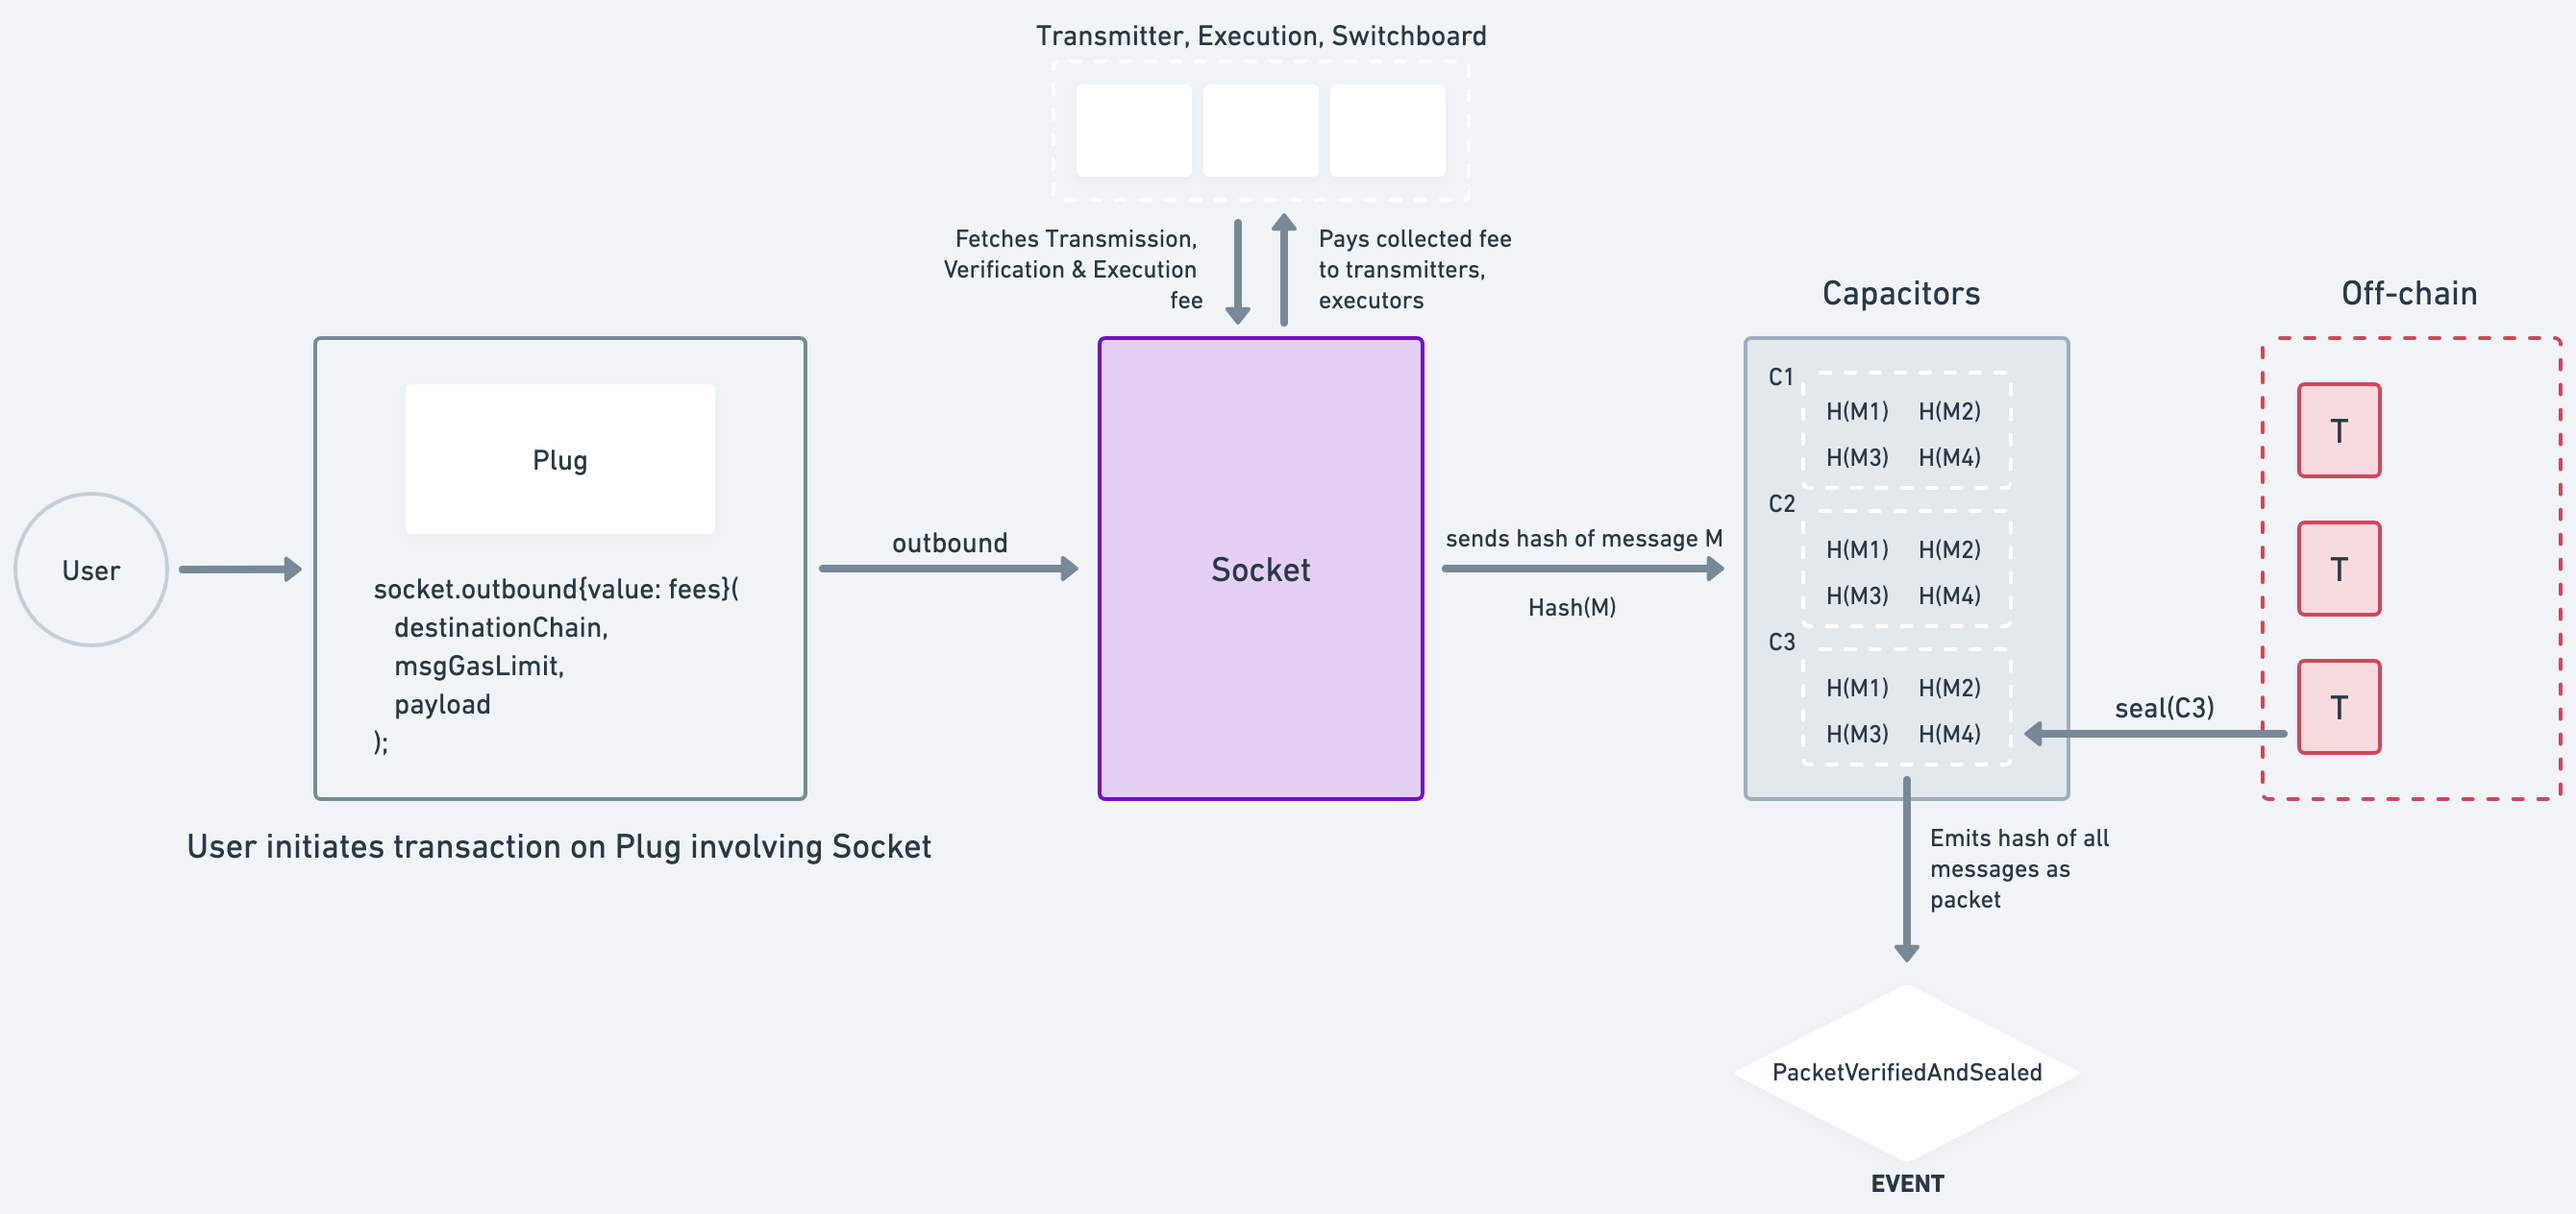
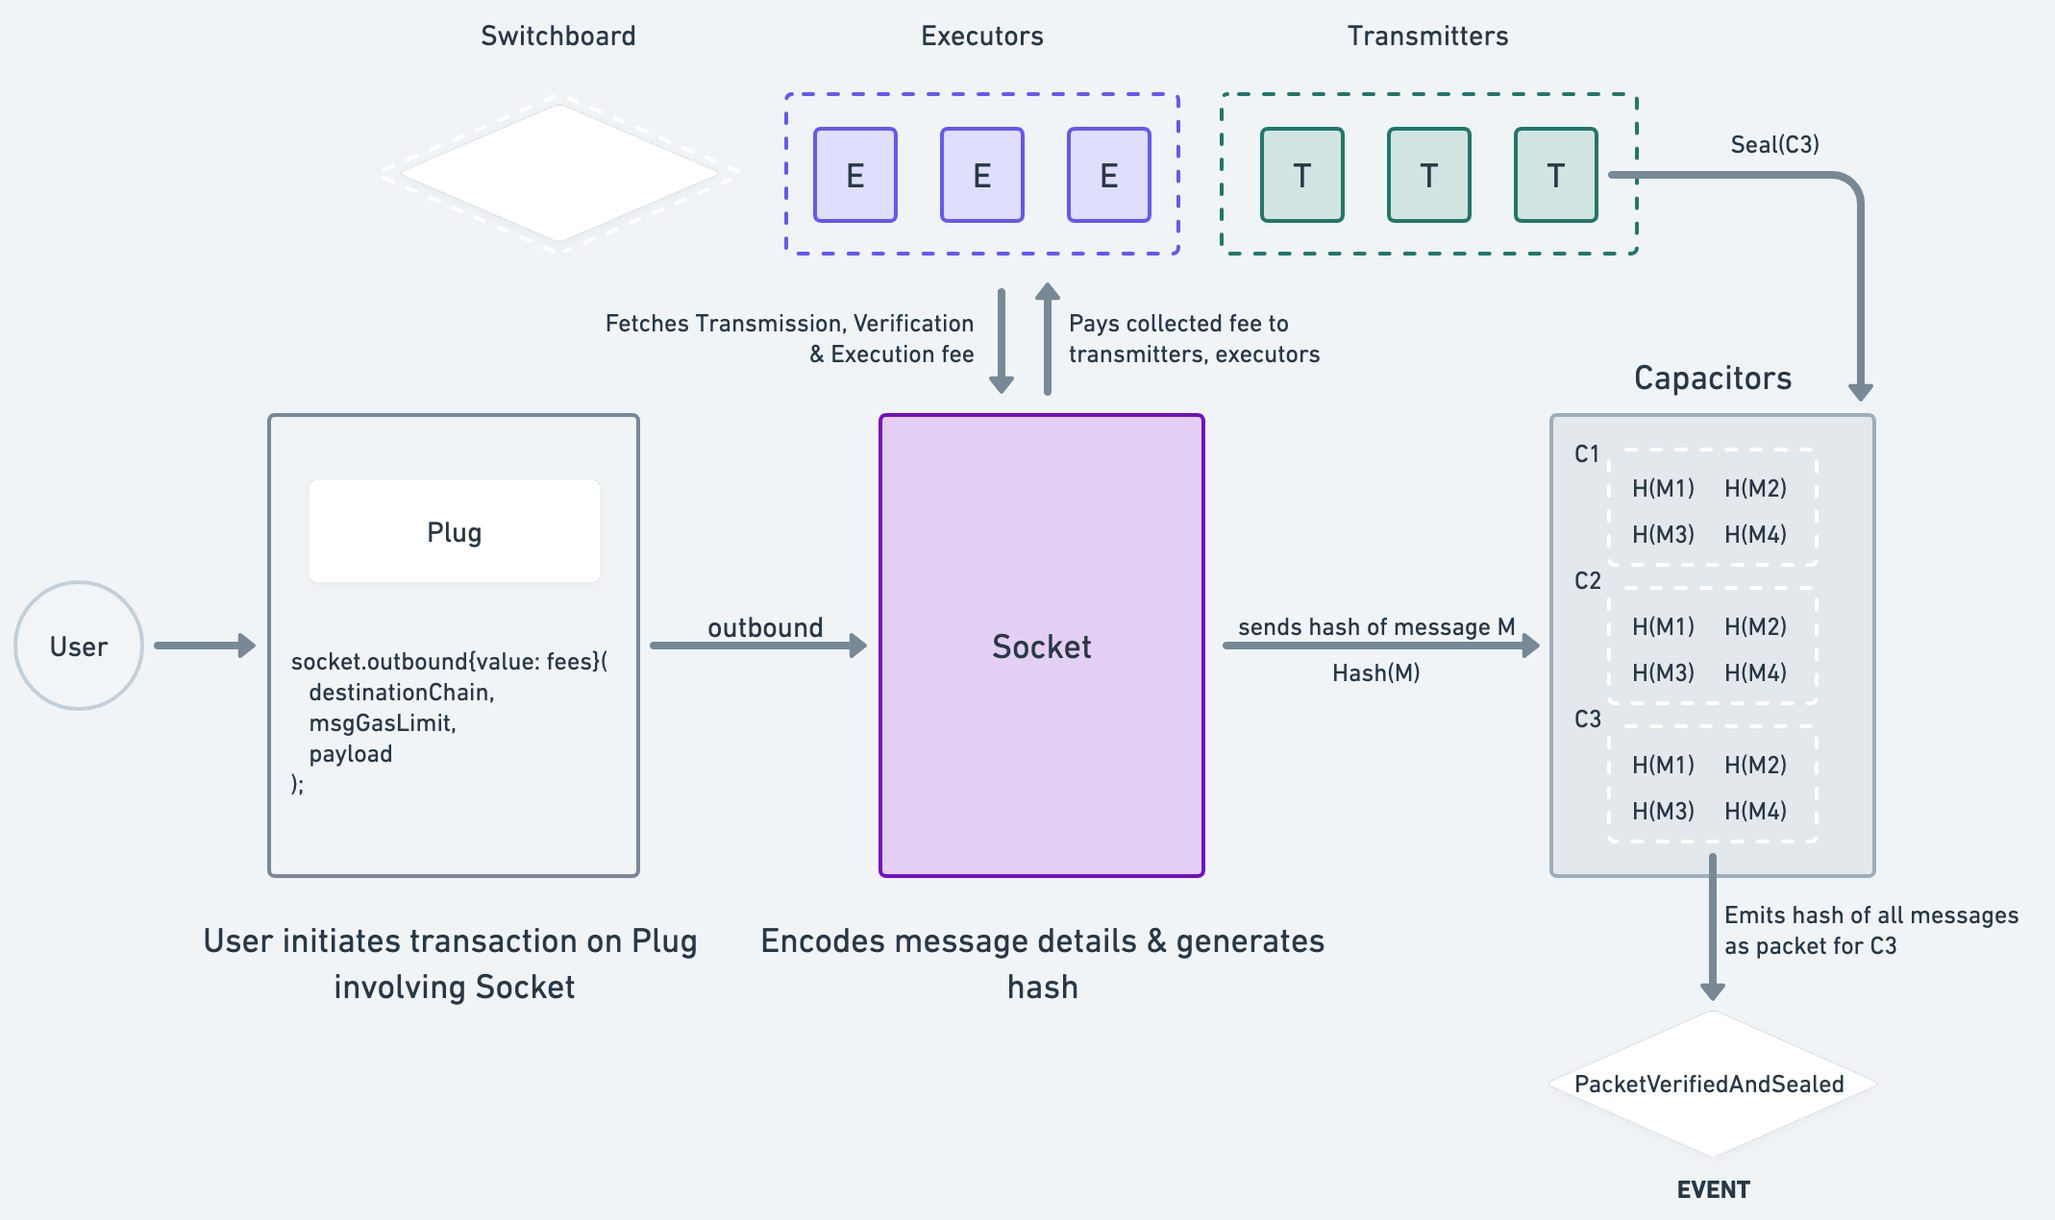
feat: misc changes

diff --git a/docusaurus.config.js b/docusaurus.config.js
@@ -60,11 +60,10 @@ const config = {
         items: [
           {
             type: 'doc',
-            docId: 'QuickStart',
+            docId: 'Introduction/basics',
             position: 'left',
             label: 'Docs',
           },
-          // {to: '/blog', label: 'Blog', position: 'left'},
           {
             href: 'https://github.com/socketdottech',
             label: 'GitHub',

diff --git a/docs/Introduction/lifecycle.md b/docs/Introduction/lifecycle.md
@@ -15,15 +15,15 @@ In this section, we dive deeper into the main interactions between Plugs and Soc
 
 <img src="/img/ConnectToDL.png" />
 
-Before Plugs can start sending and receiving messages, they need to connect or get "plugged" into Socket. Plugs make a connection with sibling plugs deployed on other chains. Plugs send configuration details such as sibling chainId, sibling plug address and switchboard configuration during connection.
+Before Plugs can start sending and receiving messages, they need to connect or get "plugged" into Socket. Plugs connect to sibling plugs deployed on other chains by sending configuration details such as sibling chainId, sibling plug address and switchboard configuration.
 
-Upon connection, Socket generates a unique identifier and stores this configuration. It then emits an event `PlugConnected` with the config data. Here's an example transaction.
+Upon connection, Socket generates a unique identifier for the configuration and stores it. It then emits an event `PlugConnected` with the config data. Here's an example transaction.
 <!-- WIP : Attach an example transaction -->
 
 #### General Notes :
 
 - Plugs may use different switchboards depending on their usecases and security requirements. They can even build a custom switchboard.
-- Plugs can only make a connection with one plug on each sibling chain. Connecting with a different sibling plug configuration for the same chain will override the previous configuration.
+- Plugs can only connect to one plug on each sibling chain. Connecting with a different sibling plug configuration for the same chain will override the previous configuration.
 
 
 ### Sending a message 
@@ -38,27 +38,35 @@ Plugs need to pay a fee to off-chain actors to get messages included in a packet
 
 <!-- WIP : Link key parameters && link capacitor -->
 <!-- WIP : Highlight capacitors are modular and different types of capacitors can exist which can be configured on switchboard -->
-Socket encodes key parameters into a message and hashes the encoded data. It then calls the capacitor and stores the hashed message in the capacitor. This emits a `MessageAdded` event. The message is stored in the capacitor until it can be emitted. Capacitors are chain specific and all messages to be sent to respective destination chains get aggregated in the capacitor.
+Socket encodes key parameters into a message and hashes the encoded data. It then calls the capacitor and stores the hashed message in the capacitor. This emits a `MessageAdded` event. The message is stored in the capacitor until it can be emitted. Capacitors are chain specific and all messages to be sent to respective destination chains get aggregated in a given capacitor.
 
 Periodically, Off-chain transmitters will call `seal()` method on the capacitor which seals all stored messages into a packet and emits a `PacketComplete` event for the packet.
 
-This event is then picked up by relayer transmitters that propose this packet on the destination chain. More on this in the next section.
+This event is then picked up by transmitters that propose this packet on the destination chain. More on this in the next section.
 
 ### Receiving a message
 
 <!-- WIP : Link Protocol Architecture. Explain the events there -->
-The transmitter relays the sealed packet to the destination chain. This includes the `packetId`, `root` & `signature`. More on the relayed data here. The packet is stored on Socket and a `PacketProposed` event is emitted.
+Once the packet is sealed on the source chain, the transmitter proposes this sealed packet to Socket on the destination chain. This includes the `packetId`, `root` & `signature`. Sending the `signature` separately allows the transmitter to sign messages from an authorized address, but be relayed by anyone.
+
+If the address proposing the packet is a valid transmitter, the packet proposal is successful. The packet is stored as a `remoteRoot` and a `PacketProposed` event is emitted.
+
+<img src="/img/propose-packet.png" width="600px"/>
 
 <!-- WIP : Watcher checking packets flow, link Switchboards 101 -->
-Once a packet is proposed, depending on the Switchboard used, the packet's validity is verified by watchers. More on this here.
+Once a packet is proposed, depending on the Switchboard used, the packet's validity is verified by watchers. More on [this here](#switchboards-101).
 
 Once the packet is verified, executors then call `execute` on a message. During the execution of the message, the following is checked : 
 1. The message is included in a packet (Decapacitor)
 2. The packet has been verified by the switchboard and exists on the source chain (Switchboard)
 
-If these are verified, then the message can be executed. Socket calls the destination plug and passes `payload`, which can be arbitrarily executed. 
+<img src="/img/ExecuteMessage.png" width="600px"/>
+
+If these are verified, then the message can be executed. `Executors` call the execute() method on Socket which checks if the above cases are verified and calls the `inbound` method on the destination plug. It passes the designated payload to the Plug, which can be arbitrarily executed.
 
 <!-- WIP : Mention X -->
-In case the message cannot be executed due to insufficient gas limit or other errors, Socket will re-try execution periodically upto X.
+In case the message cannot be executed due to insufficient gas limit or other errors, Socket will re-try execution periodically. More on Execution Failure here.
 
 ### Switchboards 101
+
+Coming soon ™

diff --git a/docs/Introduction/protocol-architecture.md b/docs/Introduction/protocol-architecture.md
@@ -19,7 +19,7 @@ Plugs are required to follow a contract specification to interface with Socket. 
 
 Socket is the core contract that Plugs and off-chain actors interact with
 - Socket stores the configuration of a Plug upon `connection`. Plugs call Socket to send `outbound` messages on source chain. Likewise, they receive `inbound` messages from Socket on destination chain.
-- Off-chain actors (Transmitters, Executors) interact with Socket to seal packets, propose new packets and execute messages.
+- Off-chain actors (Transmitters, Executors) interact with Socket to seal packets, propose new packets, verify packets and execute messages.
 
 Socket is designed to be modular and manages these core modules
 - `Switchboard`
@@ -32,7 +32,7 @@ Socket is designed to be modular and manages these core modules
 
 Switchboards are the packet verification module of Socket. Switchboards contain the logic that checks for validity of packets and when to execute them.
 
-Plugs decide which switchboard to use based on their security requirements. Plugs can use different switchboards for each network they want to send messages to. However, Switchboard used for `outbound` transfer on source chain must also be used for `inbound` transfer on destination chain.
+Plugs decide which switchboard to use based on their security requirements and can use different switchboards for each network they want to send messages to. Switchboards used for `outbound` transfer on source chain must also be used for `inbound` transfer on destination chain.
 
 Building your own Switchboards and registering them on Socket is permissionless. Switchboards require two methods to interface with Socket : 
 1. **allowPacket()** : Called by Socket to check for the validity of the packet and if it can be executed on the destination chain. The packet verification logic is complementary to this function, driven by on-chain/off-chain actors. This function returns the final `boolean` value which Socket checks.
@@ -44,10 +44,10 @@ More on Switchboard specs here.
 
 #### There are 3 default Switchboards live on Socket :
 1. **Native Switchboard** : Uses Native bridges for routing messages between chains where native bridges are available (E.g roll-ups, sidechains etc.)
-2. **Optimistic Switchboard** : Uses an optimistic approach for proving the validity of a packet. Once a packet is proposed if it's uncontested in a fixed time interval, then it's assumed to be valid and marked verified. This method requires one honest actor to flag a fraudulent packet and stop it from being verified. Hence this follows a 1 / n honest minority assumption.
-3. **Fast Switchboard** : Uses majority consensus to verify the validity of a packet. Majority of watchers in the system must attest to the validity of the message, only then is the packet marked verified.
+2. **Optimistic Switchboard** : Uses an optimistic approach for verifying the validity of a packet. Once a packet is proposed if it's uncontested in a fixed time interval, then it's assumed to be valid and marked verified. This method requires one honest actor to flag a fraudulent packet and stop it from being verified. Hence this follows a 1 / n honest minority assumption.
+3. **Fast Switchboard** : Uses majority consensus to verify the validity of a packet. Majority of watchers in the system must attest to the validity of the packet, only then is the packet marked verified.
 
-Since deploying Switchboards is permissionless, Plugs can build their own switchboards tailored to their needs. Some potential switchboards include zk-proof based, economic staking-slashing etc. 
+Socket will eventually add support for more switchoards. However, since deploying Switchboards is permissionless, Plugs can build their own switchboards tailored to their needs. Some potential switchboards include zk-proof based, economic staking-slashing etc.
 
 ### Transmit Manager 
 <!-- WIP : See if there's a better way to explain what sealing and proposing packets is -->

diff --git a/docs/Introduction/SocketDL-basics.md b/docs/Introduction/SocketDL-basics.md
@@ -1,8 +1,21 @@
 ---
 sidebar_position: 1
-id: dl-basics
+id: basics
 title: SocketDL Basics
 slug: /
 ---
 
-Coming soon ™
+SocketDL is a modular, extensible cross-chain communication protocol that enables developers to build seamless and secure interactions between smart contracts and decentralized applications (dApps) across multiple blockchain networks. SocketDL can be considered an Arbitrary Messaging Bridge. 
+
+SocketDL is canonically implemented as a set of smart contracts on 5 blockchains and is interacted with via ”Plug” smart contracts built to interact with the protocol. On the client side, we have the first core Socket Typescript client from Socket Labs for the operation of the protocol’s 3 core offchain actors: Transmitters, Executors, and Watchers. Please note that at this time during the alpha phase of SocketDL’s release, Socket Labs will be running all 3 off-chain actors. We will open up participation to the community in the future.
+
+The protocol consists of four key layers:
+
+1. Application Layer: This layer consists of “Plugs,” which are smart contract applications built to interact with Socket. Plugs follow a specified API and communicate through deployed Socket instances between any two supported chains. The core Socket contract functions as an on-chain endpoint that sends and receives payloads between chains. As applications send payloads through Plugs, Socket compresses them into cryptographic hashes called Packets, which represent thousands of payloads across apps.
+2. Delivery Layer: The delivery layer is responsible for message batching and packet delivery across chains. Socket Contracts called Capacitors store messages by recording message hashes(?) until they are ready to create packets for transmission. Then, offchain actors running a Socket node called Transmitters seal and deliver packets between source and destination chains. These Transmitters compete with one another, with the most efficient one winning the right to deliver the packet. The winning Transmitter signs the packet on the source chain and delivers the signed packet to Socket on the destination chain. Both chains then have access to the packet and the Transmitter's signature, which guarantees that fraudulent Transmitter behavior can be slashed. Permissionless message delivery with guaranteed slashing , decoupled from message verification, allows for an efficient marketplace for message delivery to develop. 
+3. Verification Layer: The layer for packet and message verification through Switchboards. These customizable verification modules allow developers to define custom conditions for packet acceptance or rejection, offering flexibility in terms of security and performance. On the destination chain, contracts called Switchboards enable apps to choose the context in which a delivered payload is processed. Socket processes the payload only if it meets the conditions specified by the app-selected Switchboard, such as accepting payloads after a 2-hour timeout or confirming payloads through a native rollup bridge. Permissionlessness and modularity at the verification layer is a core advantage and design principle for Socket. 
+4. Execution Layer: This layer handles message execution on the destination chain after verification, allowing third-party relayers like Gelato to handle execution, or for applications or users to execute their own messages. 
+
+<img src="/img/dl-layers.png"/>
+
+Developers can leverage SocketDL to build various cross-chain applications in a modular, flexible, and secure way.

diff --git a/docs/Introduction/security.md b/docs/Introduction/security.md
@@ -4,40 +4,4 @@ title: Security
 sidebar_position: 6
 ---
 
-<!-- WIP section -->
-
-Security in message passing means when you send a message from source to destination, you want to ensure the integrity of the message is intact on the destination chain.
-
-
-SocketDL contracts are immutable, without proxies. 
-
-Once a switchboard is added, it cannot be removed by Admin. 
-
-
-
-Contract Security 
-
-// WIP
-
-explanation of modular security model
-how Switchboards work, what trust assumptions you do and don’t have, what the risks 
-(If switchboards are not built securely it could lead to loss of funds or a fradulent message being accepted, overall smart contract risk, etc) 
-
-### Contract Security 
-
-SocketDL contracts are immutable, trust-less and without proxies.
-
-### Architecture Security
-
-Socket's architecture is modular 
-
-### Switchboard Security 
-
-Switchboards are the epicenter of security on Socket.
-
-The 3 switchboards live on Socket currently have robust security guarantees : 
-1. Native Switchboard : Use Native bridges for routing message from source to destination chain. This is the most secure 
-
-2. Fast Switchboard : 
-
-3. Optimistic Switchboard : 
+Coming soon ™

diff --git a/docs/Build-on-DL/examples.md b/docs/Build-on-DL/examples.md
@@ -1,0 +1,15 @@
+---
+id: dl-examples
+title: Examples
+sidebar_position: 4
+---
+
+Coming soon ™
+
+We have open-sourced a collection of example Plugs built on Socket along with some templates that make bootstrapping your Plug easier. 
+
+Checkout the examples repo here: https://github.com/SocketDotTech/socketDL-examples
+
+Cross-Chain Counter example: https://github.com/SocketDotTech/socketDL-examples/blob/main/src/Counter.sol
+
+Cross-Chain Ping-Pong example: https://github.com/SocketDotTech/socketDL-examples/blob/main/src/PingPong.sol

diff --git a/docs/Introduction/glossary.md b/docs/Introduction/glossary.md
@@ -24,3 +24,7 @@ Socket is the core contract that Plugs interact with to send and receive message
 
 ### Switchboard
 Switchboards are the security module of Socket and contain the logic for verifying the validity of packets on the destination chain. Socket has 3 types of switchboards by default, FAST, OPTIMISTIC and NATIVE. Learn more about those [here](./protocol-architecture#there-are-3-default-switchboards-live-on-socket-).
+
+### Message ID 
+
+### Packet ID

diff --git a/docs/Build-on-DL/Counter.md b/docs/Build-on-DL/Counter.md
@@ -1,7 +1,7 @@
 ---
-id: counter
-title: Counter
+id: example-counter
+title: Cross-chain counter
+sidebar_position: 1
 ---
 
-Here's an example walking through Socket! In this example, we'll build a cross-chain counter. The counter will increment and decrement numbers on the another chain from the source chain.
-
+Coming soon ™

diff --git a/docs/Build-on-DL/apiReference.md b/docs/Build-on-DL/apiReference.md
@@ -1,7 +1,7 @@
 ---
 id: api-reference
 title: API Reference
-sidebar_position: 2
+sidebar_position: 3
 ---
 
 SocketDL has 2 helper APIs for estimating fees and tracking status of messages

diff --git a/docs/Build-on-DL/testing-DL.md b/docs/Build-on-DL/testing-DL.md
@@ -1,7 +1,7 @@
 ---
 id: testing-dl
 title: Testing SocketDL
-sidebar_position: 1
+sidebar_position: 2
 ---
 
 Coming soon ™
